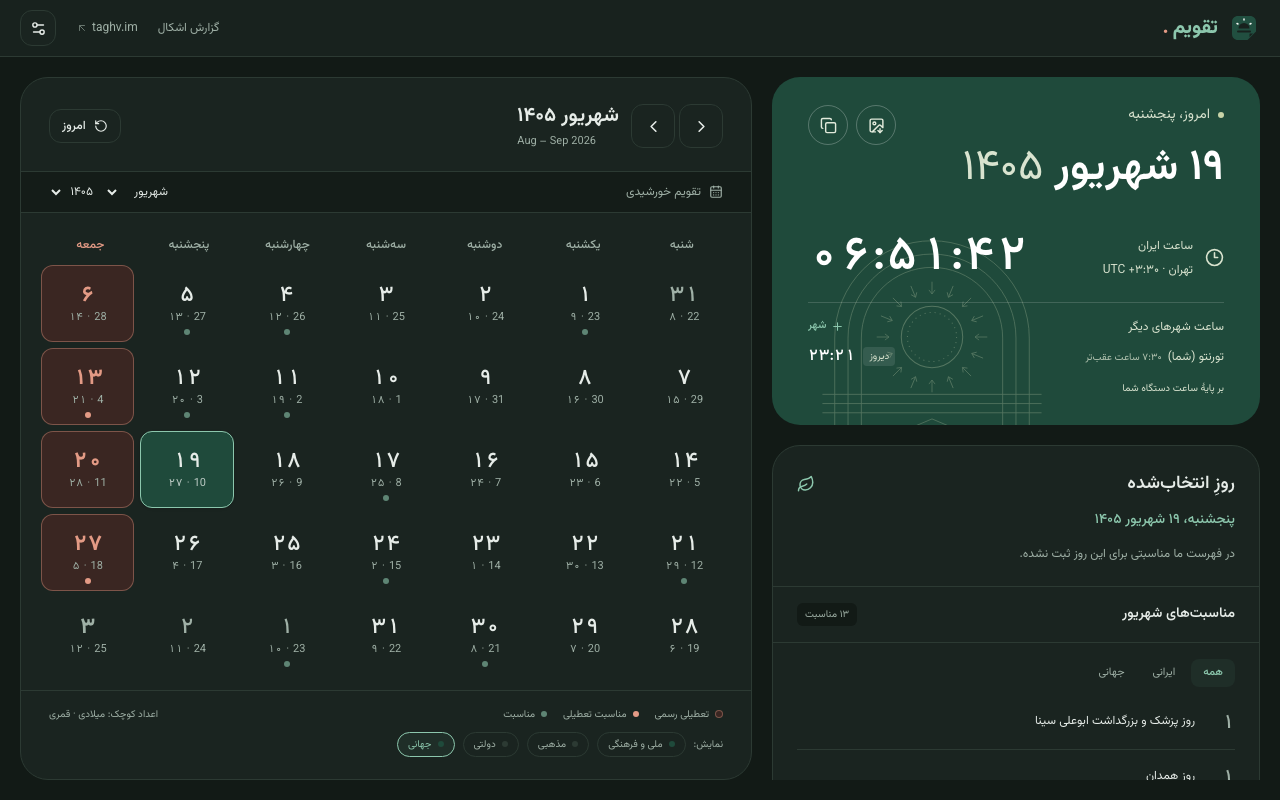
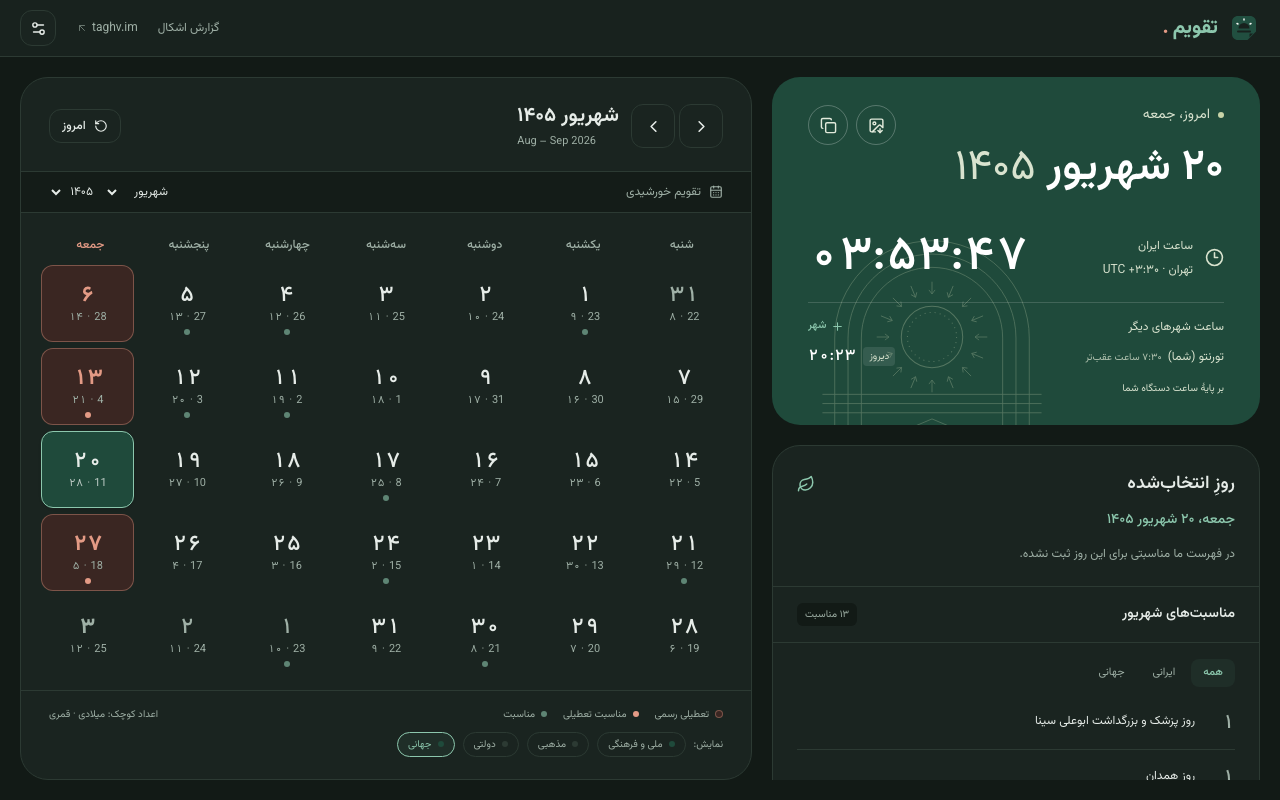
Mark release 0.9.26 as live
Pushed f1722ee..3e6d8f8 and verified against taghv.im itself, in a real browser
since the domain is blocked in the in-app one:

  --color-cat-birthday    #8a5a12 — present in the light palette at last
  category tokens served  84, which is 28 pairs across all three blocks, not 56
  calendar marks          تولد rgb(138,90,18), قسط rgb(138,82,48), سفر rgb(43,101,145)
  legend                  «تاریخهای من، به رنگ دستهاش»
  month names switch      امرداد and سپندارمذ, شهریور untouched, 12 rows in the panel

The colour half of this release was a repair, not a feature: 0.9.25 shipped
fourteen categories whose light-palette colours Tailwind had tree-shaken out of
the stylesheet entirely, so they rendered transparent on the live site with
nothing failing anywhere. Farjad spotted it from a screenshot.

diff --git a/src/lib/changelog.ts b/src/lib/changelog.ts
@@ -39,8 +39,8 @@ export const CHANGE_LABELS: Record<ChangeKind, string> = {
 export const RELEASES: Release[] = [
   {
     version: '0.9.26',
-    at: '2026-09-10T20:20:00-04:00',
-    status: 'ready',
+    at: '2026-09-10T21:05:00-04:00',
+    status: 'live',
     title: 'نام ماهها، به صورت کهن',
     changes: [
       { kind: 'added', text: 'در تنظیمات نمایش، کلید «نام ماهها» را روی «اوستایی» بگذار تا «امرداد» و «سپندارمذ» جای «مرداد» و «اسفند» را بگیرند.' },
